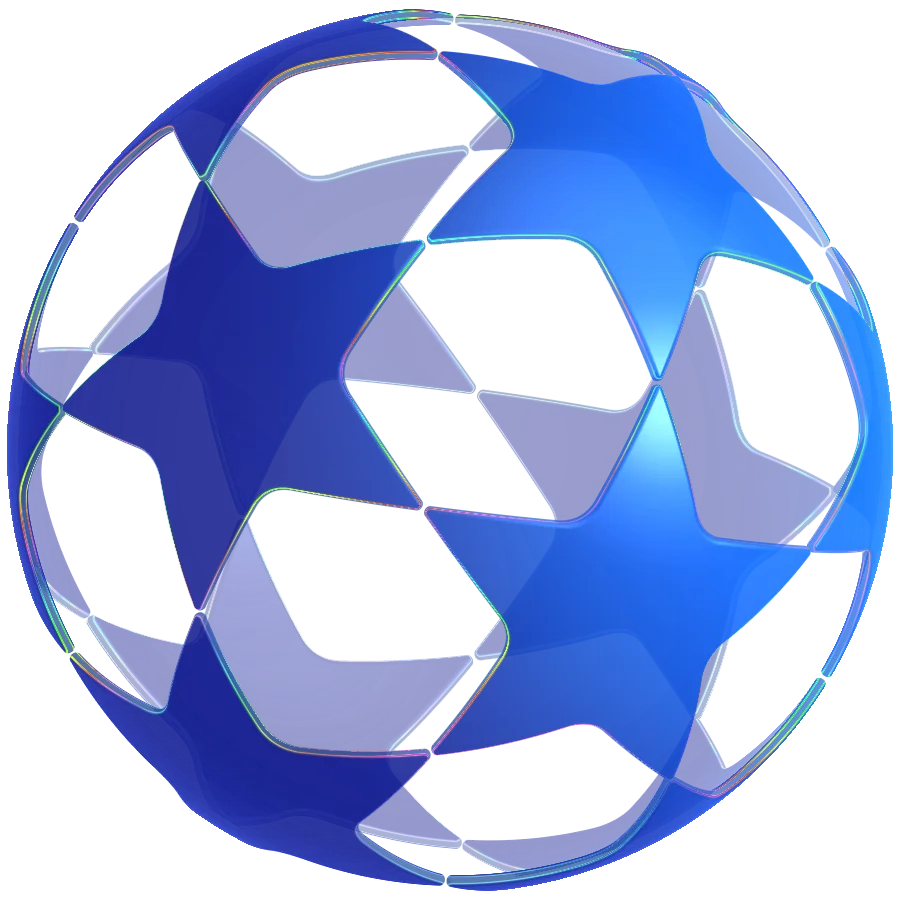
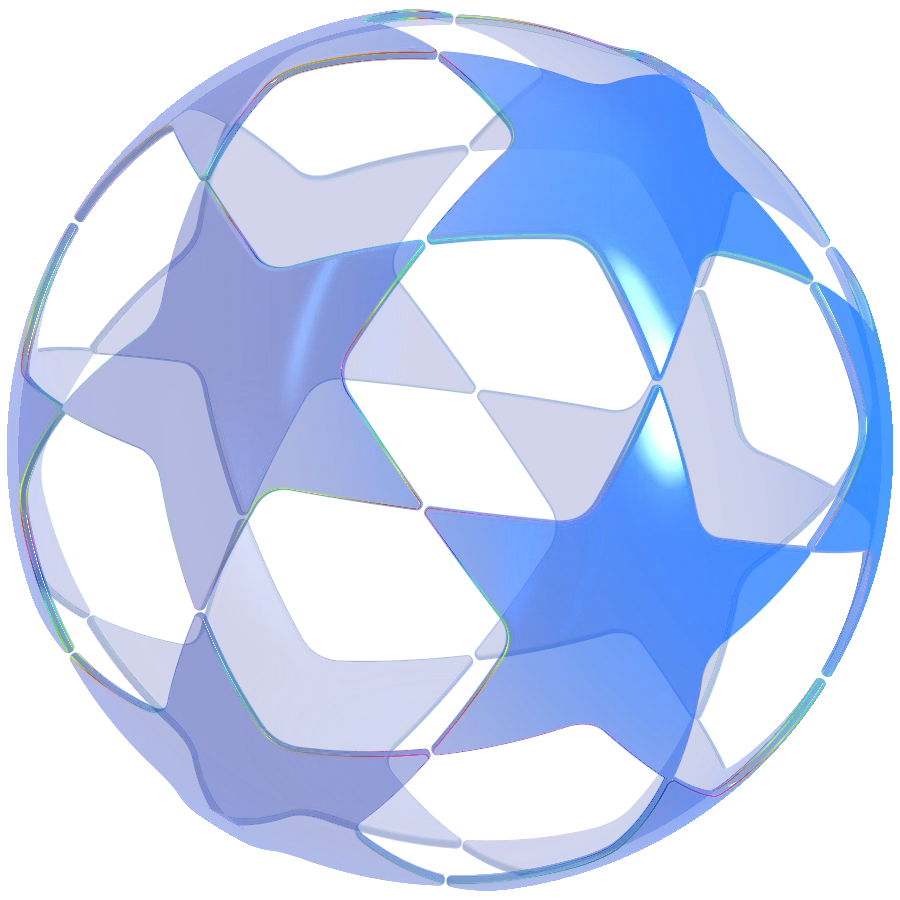
Star ball: clear glass with real reflections
The faces had gone near-opaque and the only shine was one flat sheen, so
the glass read as matte. Faces are now a light tint over what is behind
them (the far stars show through), clearer where dark and glowing azure
where the light comes through. They reflect a small studio fixed to the
camera: a tall key strip to the right, a thin cool strip upper left, a
broad light overhead, a low fill and a dim horizon. The streaks curve
across each star and slide as the ball sways, stronger as the glass turns
away (Fresnel).

diff --git a/public/js/lib/starball.js b/public/js/lib/starball.js
@@ -151,40 +151,61 @@ const vec3 PALE = vec3(0.4, 0.62, 1.0);
 // take the light from the right; the walls are lighter, translucent; and
 // where the rounded edge turns from face to wall it catches the light as a
 // thin reflection, each stretch its own colour, as glass edges do.
+// What the glass reflects: a small studio around the ball, fixed to the
+// camera so the reflections slide across the stars as the ball sways. A tall
+// light strip off to the right (the key light), a thin cool one to the upper
+// left, a broad light overhead, and a dim horizon. Lit from inside by the
+// same blue as everything else, so the reflections read as the night's.
+vec3 studio(vec3 R) {
+  float az = atan(R.x, R.z);
+  float up = R.y;
+  float key = exp(-pow((az - 1.05) / 0.15, 2.0)) * smoothstep(-0.35, 0.1, up) * (1.0 - smoothstep(0.6, 0.9, up));
+  float rim = exp(-pow((az + 0.75) / 0.05, 2.0)) * smoothstep(0.05, 0.45, up) * (1.0 - smoothstep(0.75, 0.95, up));
+  float top = smoothstep(0.7, 0.97, up);
+  float horizon = exp(-pow(up / 0.12, 2.0)) * smoothstep(-0.5, 1.2, R.x);
+  float low = exp(-pow((az - 0.35) / 0.09, 2.0)) * smoothstep(-0.9, -0.5, up) * (1.0 - smoothstep(-0.25, 0.0, up));
+  return vec3(0.92, 0.97, 1.0) * key * 1.6 + vec3(0.7, 0.85, 1.0) * rim * 1.1
+       + vec3(0.8, 0.9, 1.0) * top * 0.6 + vec3(0.55, 0.7, 1.0) * low * 0.7 + PALE * horizon * 0.45;
+}
+
+// The glass at a point: its colour (premultiplied) and cover. Clear glass is
+// mostly what it reflects: a light blue tint over whatever is behind it,
+// then the studio in its surface, stronger as the surface turns away (the
+// Fresnel effect). The walls hold more of the tint, being seen through more
+// glass. Where the rounded edge turns from face to wall it catches the light
+// as a thin coloured reflection, each stretch its own colour.
 vec4 glass(vec3 x, float far) {
   vec3 L = normalize(vec3(0.85, 0.2, 0.5));
+  vec3 V = vec3(0.0, 0.0, 1.0);
   vec3 n = normalAt(x);
   vec3 rd = normalize(x);
   float fr = dot(n, rd);                 // 1 outer face, 0 wall, -1 inner face
   float face = smoothstep(0.55, 0.92, abs(fr));
   float lit = smoothstep(-0.15, 0.95, dot(rd, L));
-  vec3 fc = mix(DIM, AZURE, 0.06 + 0.94 * pow(lit, 1.4));
-  fc += AZURE * 0.25 * pow(max(0.0, dot(rd, L)), 4.0);
-  fc += PALE * 0.15 * pow(1.0 - abs(rd.z), 3.0);
+  vec3 tint = mix(DIM, AZURE * 1.15, 0.12 + 0.88 * pow(lit, 1.2));
   float wl = max(0.0, dot(n, L));
-  vec3 wc = mix(AZURE * (0.5 + 0.5 * lit), PALE, 0.04 + 0.22 * wl);
-  vec3 c = mix(wc, fc, face);
-  float a = mix(0.7, 0.8 + 0.1 * (1.0 - abs(rd.z)), face);
-  // The reflection on the rounded edge.
+  vec3 wc = mix(AZURE * (0.55 + 0.45 * lit), PALE, 0.05 + 0.25 * wl);
+  vec3 c = mix(wc, tint, face);
+  float a = mix(0.55, 0.3 + 0.38 * pow(lit, 1.5), face); // clear where it's dark, glowing where the light comes through
+
+  // Reflections.
+  vec3 nv = dot(n, V) < 0.0 ? -n : n;    // the side facing us
+  vec3 R = reflect(-V, nv);
+  float fres = 0.08 + 0.92 * pow(1.0 - max(dot(nv, V), 0.0), 4.0);
+  vec3 refl = studio(R) * (0.45 + 0.55 * fres) + PALE * fres * 0.25;
+  float spec = pow(max(dot(nv, normalize(L + V)), 0.0), 120.0) * 0.6;
+  refl += vec3(1.0) * spec;
+
+  // The coloured edge.
   vec3 p = uRot * x;
   float glint = 0.55 + 0.45 * smoothstep(-0.3, 0.7, sin(dot(p, vec3(3.7, -2.9, 2.2))));
   float edge = min(1.0, 1.25 * exp(-pow((abs(fr) - 0.62) / 0.14, 2.0)) * glint);
   vec3 hue = prismHue(p + 0.6 * (1.0 - abs(rd.z)));
-  // The gloss: a clear coat over the glass. A soft studio light off to the
-  // upper right shows as a sheen sliding across the faces as they turn, with
-  // a tighter highlight inside it, and every surface reflects more as it
-  // turns away from us.
-  vec3 V = vec3(0.0, 0.0, 1.0);
-  vec3 H = normalize(L + V);
-  float nh = max(dot(n, H), 0.0);
-  vec3 R = reflect(-V, n);
-  float sheen = smoothstep(0.55, 0.92, dot(R, normalize(vec3(0.75, 0.45, 0.5))));
-  float fres = pow(1.0 - max(dot(n, V), 0.0), 5.0);
-  float gloss = (pow(nh, 70.0) * 0.5 + pow(nh, 16.0) * 0.12 + sheen * 0.22 + fres * 0.35) * face;
-  if (far > 0.5) { c = mix(c, DIM, 0.35); a *= 0.5; edge *= 0.45; hue = mix(hue, PALE, 0.5); gloss *= 0.3; }
-  vec3 col = c * a + mix(PALE, vec3(1.0), 0.6) * gloss;
-  a = min(1.0, a + gloss * 0.5);
-  col = mix(col, hue, edge);
+
+  if (far > 0.5) { c = mix(c, DIM, 0.3); a *= 0.6; refl *= 0.35; edge *= 0.45; hue = mix(hue, PALE, 0.5); }
+  vec3 col = c * a + refl;
+  a = min(1.0, a + dot(refl, vec3(0.3, 0.5, 0.2)) * 0.9);
+  col = mix(col, hue * max(a, edge), edge);
   a = max(a, edge);
   return vec4(col, a);
 }
